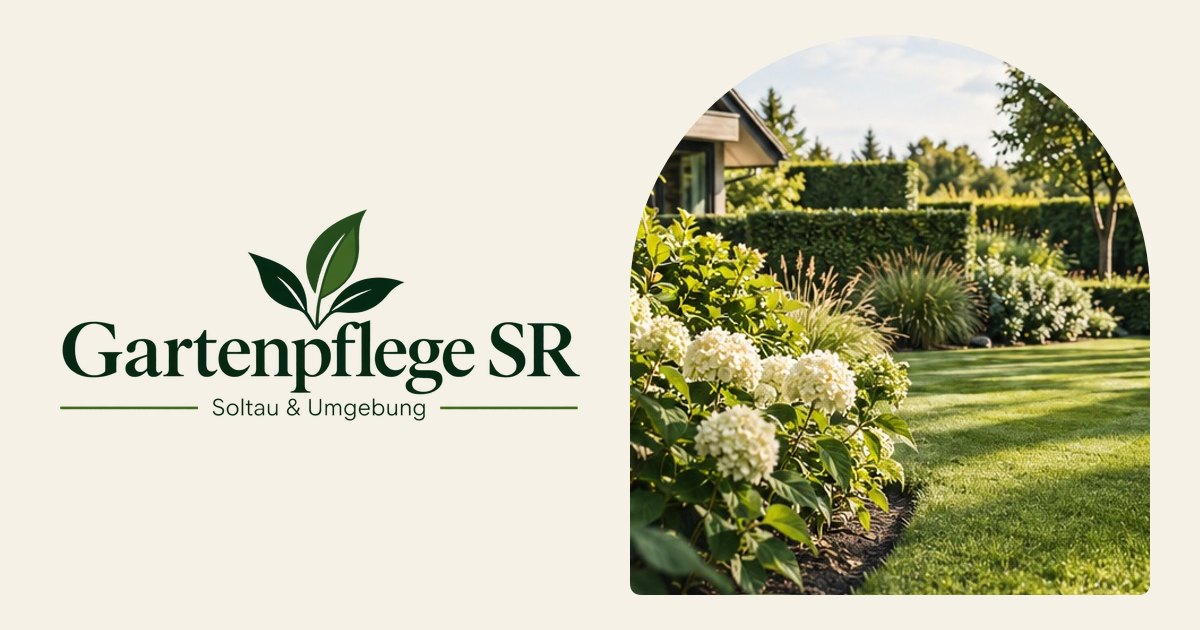
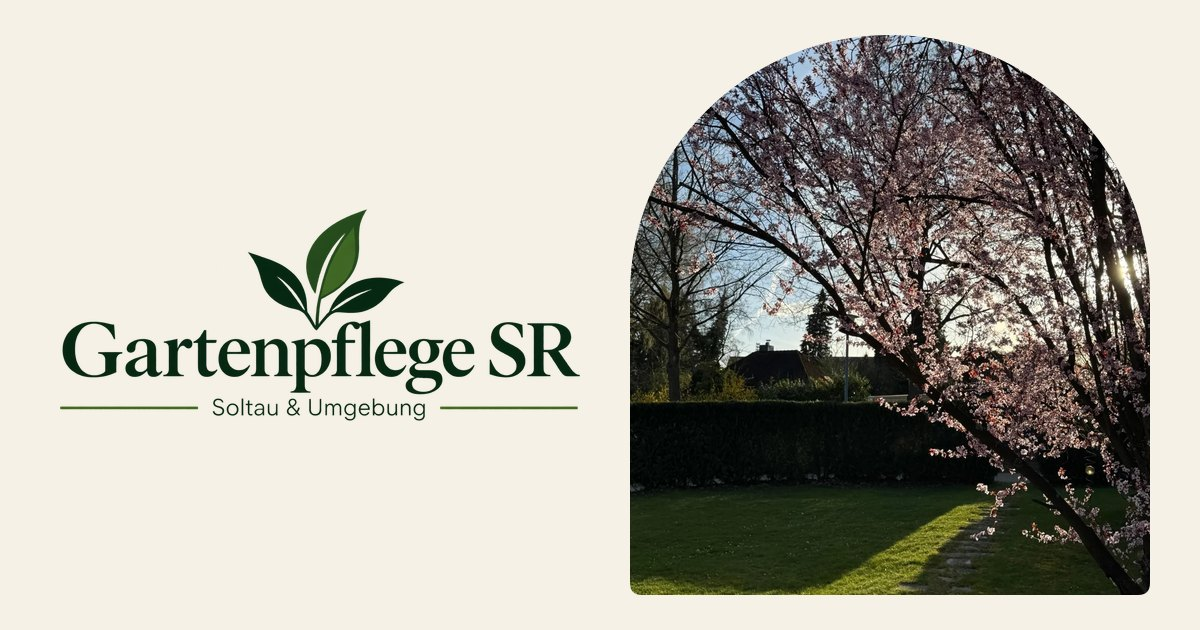
Robins Änderungen: Hero-Foto, Texte, Orte, Gartenkalender
- Hero und Vorschaubild mit Robins Kirschblüten-Foto statt Stockbild
- Über mich: was mir bei der Arbeit wichtig ist
- Einsatzgebiet mit sechs Orten
- Gartenkalender: Monatsname größer und grün, aktueller Monat hervorgehoben,
  November und Dezember mit neuen Arbeiten
- FAQ: regelmäßige Pflege kann angefragt werden

diff --git a/src/styles/site.css b/src/styles/site.css
@@ -216,7 +216,8 @@ a:focus-visible, button:focus-visible, summary:focus-visible, input:focus-visibl
 .about .placeholder { aspect-ratio: 4 / 5; max-width: 360px; }
 .about-foto { width: 100%; max-width: 360px; height: auto; aspect-ratio: 4 / 5; object-fit: cover; object-position: center 30%; border-radius: var(--radius-full) var(--radius-full) var(--radius-sm) var(--radius-sm); }
 .places { display: flex; flex-wrap: wrap; gap: var(--space-2); list-style: none; padding: 0; }
-.places li { padding: var(--space-1) var(--space-3); border: 1px solid var(--line); border-radius: var(--radius-full); background: var(--surface-raised); font-size: 15px; }
+.places li { display: inline-flex; align-items: center; gap: var(--space-2); padding: var(--space-2) var(--space-4); border: 1px solid var(--line); border-radius: var(--radius-full); background: var(--surface-raised); font-size: 16px; font-weight: 600; }
+.places li::before { content: ''; width: 8px; height: 8px; border-radius: var(--radius-full); background: var(--leaf); }
 
 /* Leistungen-Seite */
 .page-head { padding-block: var(--space-16) var(--space-12); display: flex; flex-direction: column; gap: var(--space-4); }
@@ -336,7 +337,9 @@ a:focus-visible, button:focus-visible, summary:focus-visible, input:focus-visibl
 .kal-leiste { display: grid; grid-template-columns: repeat(12, 1fr); gap: var(--space-2); margin-bottom: var(--space-6); }
 .kal-leiste a { display: grid; place-items: center; min-height: 44px; border: 1.5px solid var(--line); border-radius: var(--radius-full); background: var(--surface-raised); color: var(--ink); font-size: 15px; font-weight: 600; text-decoration: none; }
 .kal-leiste a:hover { border-color: var(--moss); color: var(--moss); }
-.kal-leiste a[aria-current] { border-color: var(--moss); color: var(--moss); }
+/* Aktueller Monat: hellgrün wie die Etiketten und etwas größer; ist er gewählt, wird er dunkelgrün. */
+.kal-leiste a { transition: transform 0.2s ease, background 0.2s ease; }
+.kal-leiste a[aria-current] { position: relative; z-index: 1; transform: scale(1.12); background: var(--sprout-soft); border-color: var(--sprout); color: var(--forest); font-weight: 700; }
 .kal-leiste a[aria-selected='true'] { background: var(--forest); border-color: var(--forest); color: var(--on-forest); }
 @media (max-width: 700px) { .kal-leiste { grid-template-columns: repeat(6, 1fr); } }
 /* Karte mit dem gewählten Monat */
@@ -352,6 +355,11 @@ a:focus-visible, button:focus-visible, summary:focus-visible, input:focus-visibl
 @keyframes kal-ein { from { opacity: 0; transform: translateY(6px); } to { opacity: 1; transform: none; } }
 .kal-reiter .kal-monat.ist-gewaehlt { animation: kal-ein 0.3s ease-out; }
 .kal-kopf { display: flex; flex-direction: column; align-items: flex-start; gap: var(--space-2); }
+/* Monatsname im Gartenkalender groß und grün, damit sofort klar ist, welcher Monat gezeigt wird. */
+.kal-monat .kal-kopf .h2 { font-size: 52px; line-height: 1; color: var(--moss); }
+/* Breitere linke Spalte, damit auch „September“ Platz hat; fest, damit nichts beim Blättern springt. */
+@media (min-width: 761px) { .kalender .kal-monat { grid-template-columns: 320px 1fr; } }
+@media (max-width: 700px) { .kal-monat .kal-kopf .h2 { font-size: 44px; } }
 .kal-arbeiten { list-style: none; padding: 0; display: grid; grid-template-columns: repeat(auto-fit, minmax(min(240px, 100%), 1fr)); gap: var(--space-8); align-content: start; }
 .kal-arbeit { display: flex; flex-direction: column; align-items: flex-start; gap: var(--space-2); }
 .kal-arbeit h3 { font-size: 17px; line-height: 24px; font-weight: 600; }
@@ -432,10 +440,12 @@ a:focus-visible, button:focus-visible, summary:focus-visible, input:focus-visibl
   .card:hover img { transform: none; }
 }
 
+.kal-leiste a:active { transform: scale(0.97); }
+.kal-leiste a[aria-current]:active { transform: scale(1.08); }
 /* Rückmeldung beim Antippen: Knöpfe und Kacheln geben leicht nach (statt des grauen Standard-Blitzes). */
 a, button, summary { -webkit-tap-highlight-color: transparent; }
 .btn, .kachel, .wegweiser a, .kal-leiste a, .schnellnav a, .karussell-pfeil, .menue-knopf, .ba-gross, .social a, .filter button { transition-property: transform, background, border-color, color, box-shadow; transition-duration: 0.12s; }
-.btn:active, .kachel:active, .wegweiser a:active, .kal-leiste a:active, .schnellnav a:active, .karussell-pfeil:active, .menue-knopf:active, .ba-gross:active, .social a:active, .filter button:active { transform: scale(0.97); }
+.btn:active, .kachel:active, .wegweiser a:active, .schnellnav a:active, .karussell-pfeil:active, .menue-knopf:active, .ba-gross:active, .social a:active, .filter button:active { transform: scale(0.97); }
 
 /* Weiche Seitenübergänge zwischen den Seiten (vom Browser, ohne Skript).
    Kopfzeile und Anruf-Leiste bleiben dabei stehen, nur der Inhalt blendet über. */

diff --git a/src/data/gartenkalender.ts b/src/data/gartenkalender.ts
@@ -102,14 +102,14 @@ export const gartenkalender: Monat[] = [
     name: 'November',
     arbeiten: [
       { titel: 'Laub und Grünschnitt wegbringen', text: 'Gehäckseltes Material und Laub, das nicht als Winterschutz bleibt, fachgerecht entsorgen.', leistung: 'gruenschnitt' },
-      { titel: 'Beete winterfest machen', text: 'Empfindliche Pflanzen mit Laub oder Reisig abdecken.', leistung: 'beete' },
+      { titel: 'Hecken kräftig zurückschneiden', text: 'Die Pflanzen ruhen, und ein starker Rückschnitt ist wieder erlaubt. Ideal, wenn die Hecke deutlich kleiner werden soll.', leistung: 'hecke' },
     ],
   },
   {
     nr: 12,
     name: 'Dezember',
     arbeiten: [
-      { titel: 'Schneelast abschütteln', text: 'Schwerer Schnee kann Äste von Hecken und Formgehölzen brechen.', leistung: 'hecke' },
+      { titel: 'Letztes Laub entfernen', text: 'Spätes Laub auf Rasen und Wegen wegräumen, damit darunter nichts fault.', leistung: 'laub' },
       { titel: 'Das neue Gartenjahr planen', text: 'Was soll im Frühjahr passieren? Jetzt ist Zeit für eine Anfrage.' },
     ],
   },

diff --git a/src/data/firma.ts b/src/data/firma.ts
@@ -12,7 +12,7 @@ export const firma = {
   inhaber: 'Robin Stocker',
   anschrift: { strasse: 'Nickelstraße 22', plz: '29614', ort: 'Soltau' },
   // Einsatzgebiet: Soltau und die direkte Umgebung.
-  orte: ['Soltau'],
+  orte: ['Soltau', 'Munster', 'Bispingen', 'Wietzendorf', 'Neuenkirchen', 'Schneverdingen'],
   // Social-Media-Profile. Vollständige Adresse eintragen (beginnt mit https://),
   // dann erscheint im Footer automatisch das Icon als Link. Solange [eckige Klammern] drinstehen, ein Platzhalter.
   social: [
